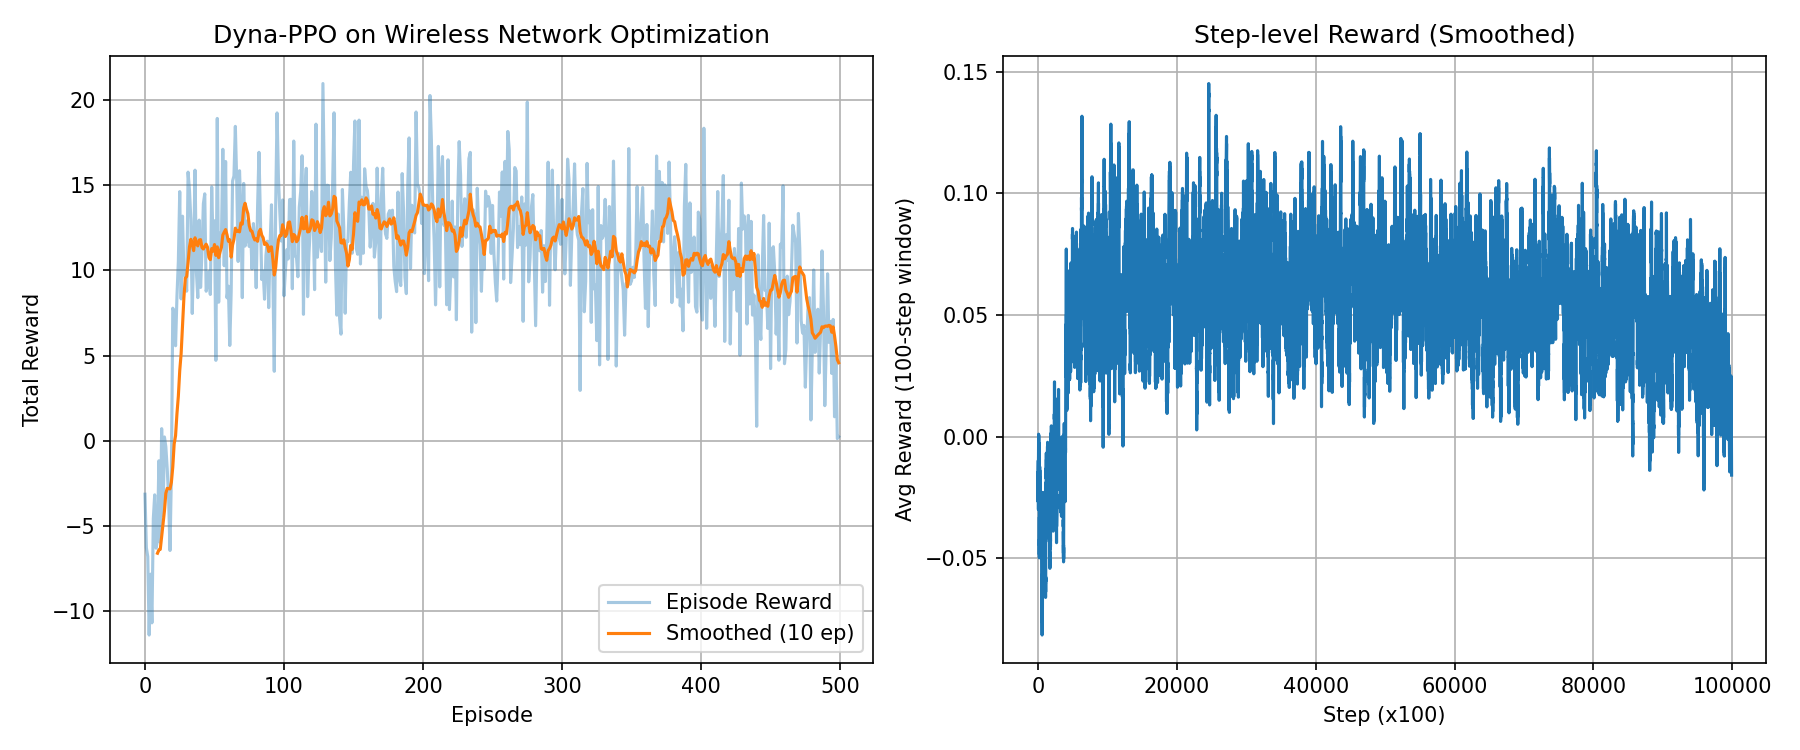
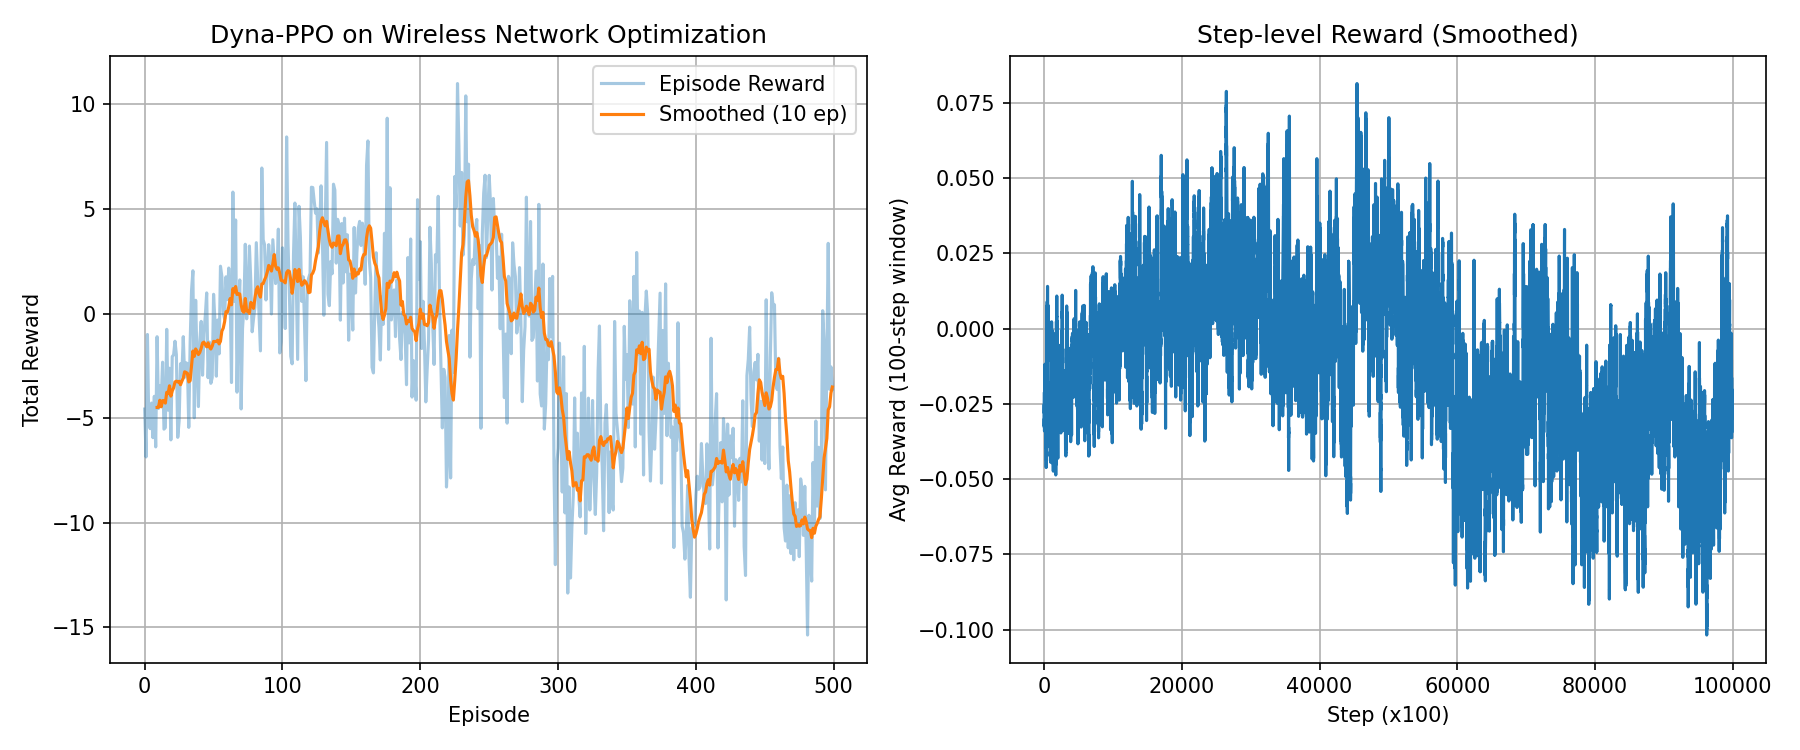
1

diff --git a/train_grpo.py b/train_grpo.py
@@ -1,8 +1,7 @@
 """
-GRPO 训练脚本
-=============
-接 wireless_env + grpo_agent + EvaluateActionWrapper，
-跑完整的 GRPO 训练循环并保存结果，与 PPO 基线对比。
+GRPO 训练脚本 (修正版)
+=====================
+核心修正：选组内优势最大的动作执行，而非固定取第一个
 """
 
 import numpy as np
@@ -33,7 +32,7 @@ GRPO_CFG = GRPOConfig(
 TOTAL_STEPS = 100_000
 SAVE_INTERVAL = 10_000
 LOG_INTERVAL = 1_000
-LOG_DIR = "logs_grpo"
+LOG_DIR = "logs_grpo_fixed"
 os.makedirs(LOG_DIR, exist_ok=True)
 
 # ============================================================
@@ -58,23 +57,25 @@ print(f"开始 GRPO 训练，总步数: {TOTAL_STEPS}")
 start_time = time.time()
 
 # ============================================================
-# 训练主循环
+# 训练主循环 (修正版)
 # ============================================================
 while total_steps < TOTAL_STEPS:
-    # ---- 1. 采样组内动作并计算优势 ----
+    # ---- 1. 采样G个动作，计算组内优势 ----
     state_tensor = torch.FloatTensor(state_vec).unsqueeze(0)
 
-    with torch.no_grad():
-        # 采样G个动作，计算组内优势
-        actions, log_probs, advantages, rewards, entropy = agent.compute_group_advantages(
-            state_tensor, env, state_vec
-        )
+    actions, log_probs, advantages, rewards, entropy = agent.compute_group_advantages(
+        state_tensor, env, state_vec
+    )
+    # actions: list of G action dicts
+    # advantages: tensor shape (G,), 已做组内标准化
+    # rewards: tensor shape (G,), 真实奖励
 
-    # ---- 2. 取组内第一个动作作为真正执行的动作 ----
-    action_dict = actions[0]
-    log_prob = log_probs[0].item()
-    advantage = advantages[0].item()
-    reward_eval = rewards[0].item()
+    # ---- 2. 核心修正：选组内优势最大的动作执行 ----
+    best_idx = torch.argmax(advantages).item()  # 或 torch.argmax(rewards)
+    action_dict = actions[best_idx]
+    log_prob = log_probs[best_idx].item()
+    advantage = advantages[best_idx].item()
+    best_reward = rewards[best_idx].item()  # 可选，用于日志
 
     # ---- 3. 环境执行选定的动作 ----
     next_state, reward, terminated, truncated, info = env.step(action_dict)
@@ -88,15 +89,15 @@ while total_steps < TOTAL_STEPS:
     episode_reward += reward
     total_steps += 1
 
-    # ---- 4. 更新状态 ----
+    # ---- 5. 更新状态 ----
     state_vec = next_state_vec
 
-    # ---- 5. buffer 满了就更新 ----
+    # ---- 6. buffer 满了就更新 ----
     if len(buffer) >= GRPO_CFG.rollout_steps:
         agent.update(buffer)
         buffer.clear()
 
-    # ---- 6. episode 结束 ----
+    # ---- 7. episode 结束 ----
     if done:
         episode_count += 1
         episode_rewards.append(episode_reward)
@@ -106,14 +107,14 @@ while total_steps < TOTAL_STEPS:
         state_vec = flatten_obs(state)
         episode_reward = 0
 
-    # ---- 7. 打印日志 ----
+    # ---- 8. 打印日志 ----
     if total_steps % LOG_INTERVAL == 0 and episode_count > 0:
         avg_r = np.mean(recent_rewards) if recent_rewards else 0
         elapsed = time.time() - start_time
         print(f"Step {total_steps:6d} | Episode {episode_count:4d} | "
               f"Avg Reward (10 ep): {avg_r:7.2f} | Time: {elapsed:.0f}s")
 
-    # ---- 8. 保存模型 ----
+    # ---- 9. 保存模型 ----
     if total_steps % SAVE_INTERVAL == 0:
         agent.save(f"{LOG_DIR}/grpo_step_{total_steps}.pt")
 
@@ -130,7 +131,7 @@ if len(episode_rewards) > 10:
     plt.plot(range(9, len(episode_rewards)), smoothed, label="Smoothed (10 ep)")
 plt.xlabel("Episode")
 plt.ylabel("Total Reward")
-plt.title("GRPO on Wireless Network Optimization")
+plt.title("GRPO on Wireless Network Optimization (Fixed)")
 plt.legend()
 plt.grid(True)
 
@@ -144,7 +145,7 @@ plt.title("Step-level Reward (Smoothed)")
 plt.grid(True)
 
 plt.tight_layout()
-plt.savefig(f"{LOG_DIR}/training_curve_grpo.png", dpi=150)
+plt.savefig(f"{LOG_DIR}/training_curve_grpo_fixed.png", dpi=150)
 plt.show()
 
 print(f"训练完成！共 {episode_count} 个 Episode, {total_steps} 步")

diff --git a/train_dyna_ppo.py b/train_dyna_ppo.py
@@ -36,8 +36,8 @@ PPO_CFG = PPOConfig(
 )
 
 # Dyna 参数  # === NEW ===
-NUM_IMAGINED = 5          # 每次想象生成几条轨迹
-IMAGINE_LEN = 10          # 每条想象轨迹多少步
+NUM_IMAGINED = 200          # 每次想象生成几条轨迹
+IMAGINE_LEN = 5          # 每条想象轨迹多少步
 PRETRAIN_EPOCHS = 3       # 想象数据预训几轮
 
 # 训练

diff --git a/data_mining.py b/data_mining.py
@@ -1,7 +1,7 @@
 import re
 import numpy as np
 
-with open(r"C:\Users\74138\Desktop\training_log_dyna_ppo.txt",encoding='utf-8') as f:
+with open(r"C:\Users\74138\Desktop\dyna_ppo2.txt",encoding='utf-8') as f:
     lines = f.readlines()
 
 rewards = []